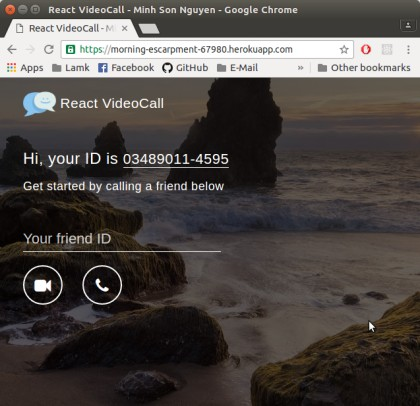
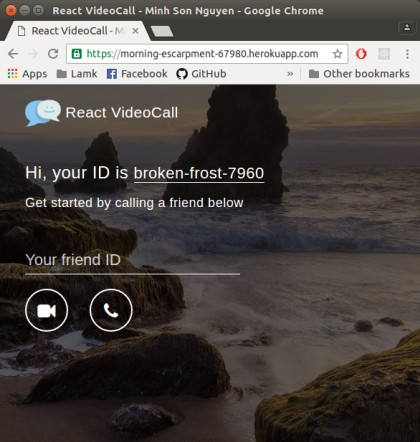
Add new ID generator

diff --git a/server/lib/haiku.js b/server/lib/haiku.js
@@ -1,0 +1,33 @@
+var adjs = [
+	"autumn", "hidden", "bitter", "misty", "silent", "empty", "dry", "dark",
+	"summer", "icy", "delicate", "quiet", "white", "cool", "spring", "winter",
+	"patient", "twilight", "dawn", "crimson", "wispy", "weathered", "blue",
+	"billowing", "broken", "cold", "damp", "falling", "frosty", "green",
+	"long", "late", "lingering", "bold", "little", "morning", "muddy", "old",
+	"red", "rough", "still", "small", "sparkling", "throbbing", "shy",
+	"wandering", "withered", "wild", "black", "young", "holy", "solitary",
+	"fragrant", "aged", "snowy", "proud", "floral", "restless", "divine",
+	"polished", "ancient", "purple", "lively", "nameless"
+];
+
+var nouns = [
+    "waterfall", "river", "breeze", "moon", "rain", "wind", "sea", "morning",
+    "snow", "lake", "sunset", "pine", "shadow", "leaf", "dawn", "glitter",
+    "forest", "hill", "cloud", "meadow", "sun", "glade", "bird", "brook",
+    "butterfly", "bush", "dew", "dust", "field", "fire", "flower", "firefly",
+    "feather", "grass", "haze", "mountain", "night", "pond", "darkness",
+    "snowflake", "silence", "sound", "sky", "shape", "surf", "thunder",
+    "violet", "water", "wildflower", "wave", "water", "resonance", "sun",
+    "wood", "dream", "cherry", "tree", "fog", "frost", "voice", "paper",
+    "frog", "smoke", "star"
+];
+
+module.exports = function () {
+    var adj = adjs[Math.floor(Math.random() * adjs.length)];
+    var noun = nouns[Math.floor(Math.random() * nouns.length)];
+    const MIN = 1000;
+    const MAX = 9999;
+    var num = Math.floor(Math.random() * ((MAX + 1) - MIN)) + MIN;
+
+    return `${adj}-${noun}-${num}`;
+};

diff --git a/server/lib/server.js b/server/lib/server.js
@@ -1,10 +1,8 @@
-var path = require("path");
-
 var express = require("express"),
 	app = express(),
 	server = require("http").createServer(app),
 	io = require("socket.io"),
-	uuid = require("node-uuid");
+	haiku = require("./haiku");
 
 var userIds = {};
 
@@ -23,23 +21,38 @@ module.exports.run = function (config) {
  */
 function initSocket(socket) {
 	var id;
-	socket.on("init", (data, fn) => {
-		id = uuid.v4().substr(0, 13);
-		userIds[id] = socket;
-		socket.emit("init", { id: id });
-	}).on("call", data => {
-		data["from"] = id;
-		var to = userIds[data.to];
-		if (to) to.emit("call", data);
-		else socket.emit("call", { failed: true });
-	}).on("end", data => {
-		data["from"] = id;
-		var to = userIds[data.to];
-		if (to) to.emit("end");
-	}).on("disconnect", () => {
-		delete userIds[id];
-		console.log(id, "disconnected");
-	});
+	socket
+		.on("init", (data, fn) => {
+			randomID(_id => {
+				id = _id;
+				userIds[id] = socket;
+				socket.emit("init", { id: id });
+			});
+		})
+		.on("call", data => {
+			data["from"] = id;
+			var to = userIds[data.to];
+			if (to) to.emit("call", data);
+			else socket.emit("call", { failed: true });
+		})
+		.on("end", data => {
+			data["from"] = id;
+			var to = userIds[data.to];
+			if (to) to.emit("end");
+		})
+		.on("disconnect", () => {
+			delete userIds[id];
+			console.log(id, "disconnected");
+		});
 
 	return socket;
+}
+
+/**
+ * Random ID until the ID is not in use
+ */
+function randomID(callback) {
+	var id = haiku();
+	if (id in userIds) setTimeout(() => haiku(callback), 5);
+	else callback(id);
 }

diff --git a/README.md b/README.md
@@ -1,11 +1,14 @@
 ## React-VideoCall
 Demo app: https://morning-escarpment-67980.herokuapp.com/  
 
+<img align="right" width="360" src="https://raw.githubusercontent.com/nguymin4/react-videocall/master/docs/ss1.jpg"  alt =" " style="border: solid 1px #d4d4d4" />
+  
 Video call to your friend without registering. 
 Simply send your friend your auto-generated unique ID to make the call.  
 
 The app is "Fire-n-Forget" which means that there is no logging at server-side. 
 And everytime you open a new tab, the server give you a totally different unique ID.
+
 
 **Front-end Technologies:**
 - React
@@ -18,4 +21,3 @@ And everytime you open a new tab, the server give you a totally different unique
 - Express
 - Socket.IO
 
-<img align="right" width="360" src="https://github.com/nguymin4/react-videocall/blob/master/docs/ss1.jpg"  alt =" " style="border: solid 1px #d4d4d4" />
